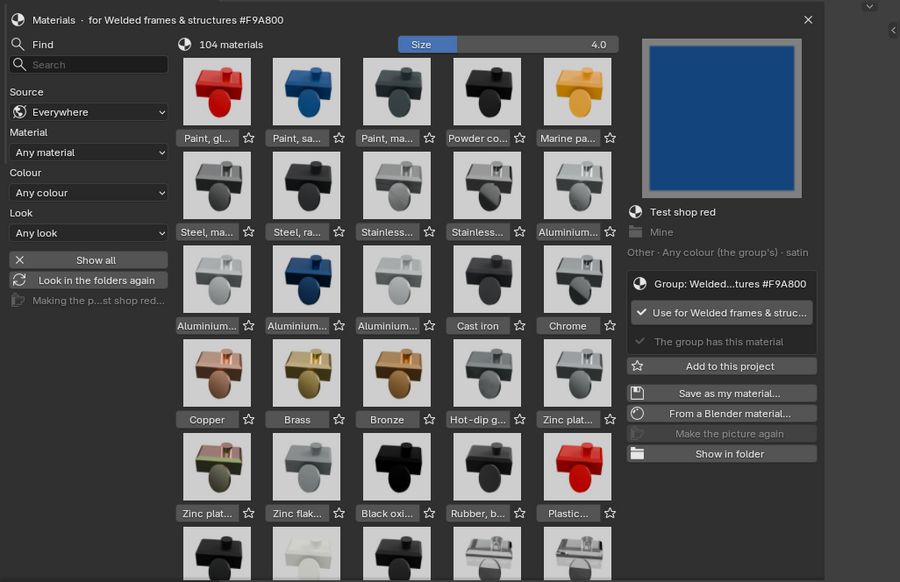
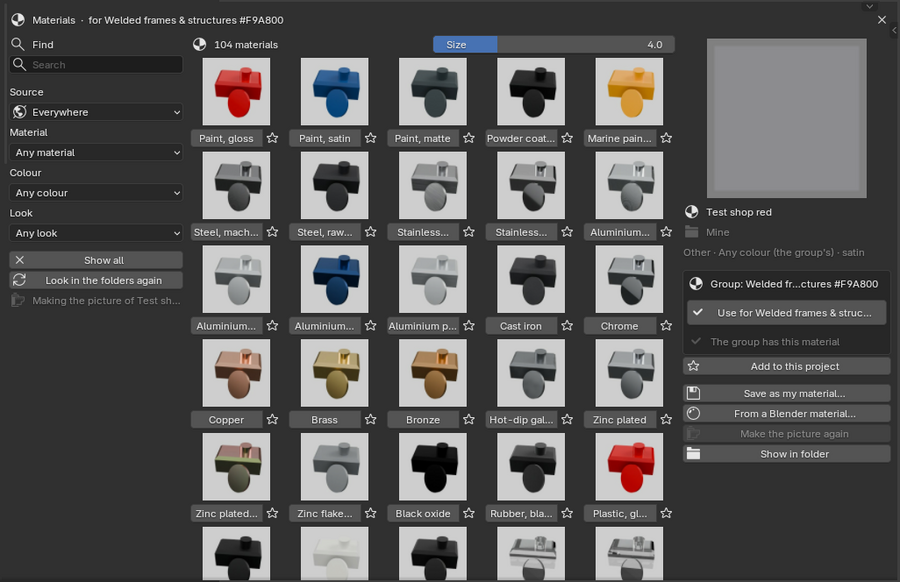
Task 0273: guide picture of the Materials window; a Blender material's tag line
Claude-Session: https://claude.ai/code/session_01LGPBd6XostqTHVmE7RSP9n

diff --git a/fresing_render/blender/ui_material_picker.py b/fresing_render/blender/ui_material_picker.py
@@ -122,6 +122,8 @@ def _short(text: str, n: int) -> str:
 
 
 def tag_line(e) -> str:
+    if e.is_blend:
+        return "Made in Blender's shader editor: its own colour and look"
     looks = ", ".join(ML.LOOK_LABELS.get(x, x).lower() for x in e.looks)
     return f"{e.kind} · {ML.COLOUR_LABELS.get(e.colour, e.colour)} · {looks}"
 
